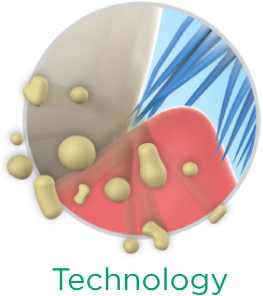
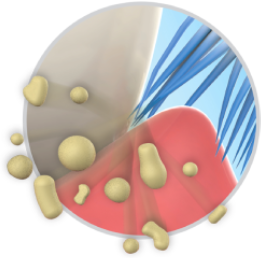
replaced tech and pn images with live text and updated size and placements

diff --git a/src/routes/Btc/Patient/RecommendationSlider/RecommendationSlider.tsx b/src/routes/Btc/Patient/RecommendationSlider/RecommendationSlider.tsx
@@ -4,30 +4,6 @@ import * as S from './RecommendationSlider.styles';
 
 import { RecommendationSet } from '../../../../utils/patientRecommendations';
 
-import _1815_StringFloss_ProWeave from "../../../../assets/btc/patient/recommendations/1815-StringFloss-ProWeave.webp";
-import _1940_StringFloss_Fine from "../../../../assets/btc/patient/recommendations/1940-StringFloss-Fine.webp";
-import _2008_StringFloss_DualDefense from "../../../../assets/btc/patient/recommendations/2008-StringFloss-DualDefense.webp";
-import _2010_StringFloss_ComfortSlide from "../../../../assets/btc/patient/recommendations/2010-StringFloss-ComfortSlide.webp";
-import _2030_StringFloss_Expanding from "../../../../assets/btc/patient/recommendations/2030-StringFloss-Expanding.webp";
-import _3210_Easy_Thread from "../../../../assets/btc/patient/recommendations/3210-EasyThread.webp";
-
-import _891_Flosser_ProClean from "../../../../assets/btc/patient/recommendations/891-Flosser-ProClean.webp";
-import _828_Flosser_Twisted from "../../../../assets/btc/patient/recommendations/828-Flosser-Twisted.webp";
-import _831_Flosser_EcoClean from "../../../../assets/btc/patient/recommendations/831-Flosser-EcoClean.webp";
-import _887_Flosser_ComfortSlide from "../../../../assets/btc/patient/recommendations/887-Flosser-ComfortSlide.webp";
-import _1815_840_FlossAndThreader from "../../../../assets/btc/patient/recommendations/1815+840-ProWeave&EEZThru.webp";
-
-import _670_SoftPicks_ComfortFlex from "../../../../assets/btc/patient/recommendations/670-SoftPicks-ComfortFlex.webp";
-import _632_SoftPicks_Original from "../../../../assets/btc/patient/recommendations/632-SoftPicks-Original.webp";
-import _650_SoftPicks_Advanced from "../../../../assets/btc/patient/recommendations/650-SoftPicks-Advanced.webp";
-import _642_Sulcus from "../../../../assets/btc/patient/recommendations/642-Sulcus.webp";
-
-import _611_Proxabrush_Original from "../../../../assets/btc/patient/recommendations/611-Proxabrush-Original.webp";
-
-import _1312_Proxabrush_Microtight from "../../../../assets/btc/patient/recommendations/1312-Proxabrush-MicroTight.webp";
-import _1314_Proxabrush_Ultratight from "../../../../assets/btc/patient/recommendations/1314-Proxabrush-Ultratight.webp";
-
-
 import { 
   Proxabrush1314,
   Proxabrush1414,
@@ -40,7 +16,6 @@ import { AdvancedSoftPicks, ComfortFlexSoftPicks } from './SoftPicks';
 
 import { EcoCleanFlosser, ComfortSlideFlosser, TwistedMintFlosser, ProfessionalCleanFlosser } from './FlosserSlide';
 import { ProWeaveAndEEZThru, EasyThreadFloss, ComfortSlideFloss, DualDefenceFloss, ProWeaveFloss, DeepCleanFloss } from './StringFloss';
-// 
 
 import _1414_Proxabrush_Tight from "../../../../assets/btc/patient/recommendations/1414-Proxabrush-Tight.webp";
 import _1514_Proxabrush_Moderate from "../../../../assets/btc/patient/recommendations/1514-Proxabrush-Moderate.webp";

diff --git a/src/routes/Btc/Patient/Patient.tsx b/src/routes/Btc/Patient/Patient.tsx
@@ -22,11 +22,11 @@ import { getCombinationKey } from '../../../utils/patientResult';
 import { recommendations } from "../../../utils/patientRecommendations";
 import { RecommendationSlider } from "./RecommendationSlider/RecommendationSlider";
 
-import playSound from "../../../utils/playSound";
-import EmbrasureSound from "../../../assets/sounds/embrasure.mp3";
-import MotivatedSound from "../../../assets/sounds/motivated.mp3";
-import ApplianceSound from "../../../assets/sounds/appliance.mp3";
-import GoToProductSound from "../../../assets/sounds/gotoproduct.mp3";
+// import playSound from "../../../utils/playSound";
+// import EmbrasureSound from "../../../assets/sounds/embrasure.mp3";
+// import MotivatedSound from "../../../assets/sounds/motivated.mp3";
+// import ApplianceSound from "../../../assets/sounds/appliance.mp3";
+// import GoToProductSound from "../../../assets/sounds/gotoproduct.mp3";
 
 
 type ImageKey = 
@@ -102,19 +102,19 @@ export default function BtcPatient() {
       if (!hasPreviousRowSelection) return;
     }
 
-      switch(rowIndex) {
-        case 0: 
-          playSound(EmbrasureSound);
-          break;
-        case 1: 
-          playSound(MotivatedSound);
-          break;
-        case 2: 
-          playSound(ApplianceSound);
-          break;
-        default:
-          break;
-      }
+      // switch(rowIndex) {
+      //   case 0: 
+      //     playSound(EmbrasureSound);
+      //     break;
+      //   case 1: 
+      //     playSound(MotivatedSound);
+      //     break;
+      //   case 2: 
+      //     playSound(ApplianceSound);
+      //     break;
+      //   default:
+      //     break;
+      // }
 
     setActiveImages(prev => {
       const newState = { ...prev };
@@ -148,7 +148,7 @@ export default function BtcPatient() {
   const showResultButton = hasRowSelection(0) && hasRowSelection(1);
 
   const handleShowResults = () => {
-    playSound(GoToProductSound);
+    // playSound(GoToProductSound);
     setShowResults(true);
   }
 

diff --git a/src/routes/Toothbrush/Toothbrush.tsx b/src/routes/Toothbrush/Toothbrush.tsx
@@ -42,13 +42,19 @@ export default function Toothbrush() {
                 <S.Recommended src={Col1Row2}/>
                 <h3>Recommended<br/> By Canadian<br/> Dental&nbsp;Hygienists</h3>
               </S.RecommendedWrapper>
-
+              
               <S.LinksWrapper>
-                <S.StyledLink to="/toothbrush/tech">
-                  <S.LinkImg src={Technology2} />
+                 <S.StyledLink to="/toothbrush/tech">
+                  <S.LinkContent>
+                    <S.LinkImg src={Technology2} />
+                    <S.LinkText>Technology</S.LinkText>
+                  </S.LinkContent>
                 </S.StyledLink> 
                 <S.StyledLink to="/toothbrush/patient">
-                  <S.LinkImg src={PatientNeeds2} />
+                  <S.LinkContent>
+                    <S.LinkImg src={PatientNeeds2} />
+                    <S.LinkText>Patient Needs</S.LinkText>
+                  </S.LinkContent>
                 </S.StyledLink>
               </S.LinksWrapper>
             </S.ContentLeft>

diff --git a/src/routes/Btc/Btc.tsx b/src/routes/Btc/Btc.tsx
@@ -45,13 +45,18 @@ export default function Toothbrush() {
                 <S.Recommended src={Col1Row2}/>
                 <h3>Recommended<br/> By Canadian<br/> Dental&nbsp;Hygienists</h3>
               </S.RecommendedWrapper>
-
               <S.LinksWrapper>
                 <S.StyledLink to="/btc/tech">
-                  <S.LinkImg src={Technology2} />
+                  <S.LinkContent>
+                    <S.LinkImg src={Technology2} />
+                    <S.LinkText>Technology</S.LinkText>
+                  </S.LinkContent>
                 </S.StyledLink> 
                 <S.StyledLink to="/btc/patient">
-                  <S.LinkImg src={PatientNeeds2} />
+                  <S.LinkContent>
+                    <S.LinkImg src={PatientNeeds2} />
+                    <S.LinkText>Patient Needs</S.LinkText>
+                  </S.LinkContent>
                 </S.StyledLink>
               </S.LinksWrapper>
             </S.ContentLeft>

diff --git a/src/components/SideBar/SideBar.tsx b/src/components/SideBar/SideBar.tsx
@@ -18,8 +18,8 @@ import acs2 from '../../assets/nav-icons/acs2.jpg';
 import ref1 from "../../assets/nav-icons/ref1.jpg";
 import ref2 from "../../assets/nav-icons/ref2.jpg";
 
-import NavTapSound from "../../assets/sounds/tapside.mp3";
-import playSound from "../../utils/playSound";
+// import NavTapSound from "../../assets/sounds/tapside.mp3";
+// import playSound from "../../utils/playSound";
 
 const navItems = [
     {
@@ -102,7 +102,7 @@ export default function SideBar() {
               <S.NavButton 
                 to={item.path}
                 className={isActive ? 'active' : ''}
-                onPointerDown={() => playSound(NavTapSound)}
+                // onPointerDown={() => playSound(NavTapSound)}
               >
                 <S.NavIcon 
                   src={isActive ? item.activeIcon : item.inactiveIcon}

diff --git a/src/components/InnerNav/InnerNav.tsx b/src/components/InnerNav/InnerNav.tsx
@@ -1,8 +1,8 @@
 import * as S from './InnerNav.styles';
 import GumLogo from "../../assets/gum-logo.svg";
 import { useLocation } from 'react-router-dom';
-import playSound from '../../utils/playSound';
-import tapTop from "../../assets/sounds/taptop.mp3";
+// import playSound from '../../utils/playSound';
+// import tapTop from "../../assets/sounds/taptop.mp3";
 
 interface NavItem {
   path: string;
@@ -19,7 +19,7 @@ export default function InnerNav({ navItems }: InnerNavProps) {
   const location = useLocation();
 
     const handleTabPointerDown = (e: React.PointerEvent, path: string) => {
-    playSound(tapTop);
+    // playSound(tapTop);
     if (location.pathname === path) {
       e.preventDefault();
       window.location.reload();

diff --git a/src/routes/Btc/Btc.styles.ts b/src/routes/Btc/Btc.styles.ts
@@ -107,9 +107,25 @@ export const LinksWrapper = styled.div`
 export const StyledLink = styled(Link)`
   display: flex;
   justify-content:  flex-start;
+  text-decoration: none;
+`;
+
+export const LinkContent = styled.div`
+  display: flex;
+  flex-direction: column;
+  align-items: center;
+  text-align: center;
 `;
 
 export const LinkImg = styled.img`
   width: 95%;
   height: auto;
+
+`;
+
+export const LinkText = styled.span`
+  font-family: "Gotham", sans-serif;
+  color: ${colors.secondaryGreen};
+  font-size: clamp(16px, 1.5vw, 1.8rem);
+  font-weight: 400;
 `;

diff --git a/src/routes/Toothbrush/Toothbrush.styles.ts b/src/routes/Toothbrush/Toothbrush.styles.ts
@@ -104,10 +104,24 @@ export const LinksWrapper = styled.div`
 export const StyledLink = styled(Link)`
   display: flex;
   justify-content:  flex-start;
+  text-decoration: none;
+`;
+
+export const LinkContent = styled.div`
+  display: flex;
+  flex-direction: column;
+  align-items: center;
+  text-align: center;
 `;
 
 export const LinkImg = styled.img`
   width: 95%;
   height: auto;
+`;
 
+export const LinkText = styled.span`
+  font-family: "Gotham", sans-serif;
+  color: ${colors.secondaryGreen};
+  font-size: clamp(16px, 1.5vw, 1.8rem);
+  font-weight: 400;
 `;

diff --git a/src/routes/Recommend/Recommend.styled.ts b/src/routes/Recommend/Recommend.styled.ts
@@ -21,7 +21,7 @@ export const RecommendBG = styled.div<RecommendBGProps>`
   background-size: cover;
   background-repeat: no-repeat;
   width: 100%;
-  height: 55vh;
+  height: 60vh;
   box-sizing: border-box;
   align-items: ${props => props.$isFullWidthImage ? 'center' : 'normal'};
 

diff --git a/src/constants/colors.ts b/src/constants/colors.ts
@@ -1,5 +1,6 @@
 export const colors = {
     primary: '#00a16b',
+    secondaryGreen: "#1fac7c",
     black: "#666666",
     dotBG: "#01763f",
     dotBG2: "#018c4b",
